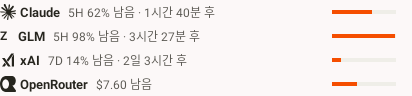
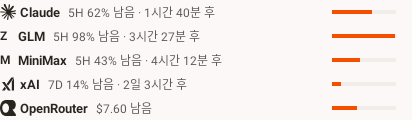
test(minimax): cover cards, notifications and screens

diff --git a/app/src/test/java/org/parkjw/apps/oot/service/NotificationScreenshotTest.kt b/app/src/test/java/org/parkjw/apps/oot/service/NotificationScreenshotTest.kt
@@ -54,6 +54,15 @@ class NotificationScreenshotTest {
             )
         ),
         VendorUsage(
+            accountId = "demo-minimax",
+            providerType = ProviderType.MINIMAX,
+            displayName = "minimax-demo@example.com",
+            windows = listOf(
+                UsageWindow("five_hour", "5h", Remaining.Percent(43.0), resetIn(4 * 60 + 12)),
+                UsageWindow("seven_day", "7d", Remaining.Percent(77.0), resetIn(5 * 24 * 60))
+            )
+        ),
+        VendorUsage(
             accountId = "demo-xai",
             providerType = ProviderType.XAI,
             displayName = "xai-demo@example.com",
@@ -134,6 +143,13 @@ class NotificationScreenshotTest {
         captureCollapsed(360, "notif-collapsed-360-light-3x.png")
     }
 
+    // 320dp at font scale 2.0: every vendor line, including MiniMax's 5H and 7D, still fits.
+    @Test
+    @Config(qualifiers = "ko-w320dp-h800dp-notnight-xxhdpi", fontScale = 2.0f)
+    fun notifExpanded320FontScale2x() {
+        captureExpanded(320, "notif-expanded-320-font200.png")
+    }
+
     // Claude, first in user order, is switched off in Settings: the collapsed line pulls the next vendor in.
     @Test
     @Config(qualifiers = "w412dp-h800dp-notnight-xxhdpi")
@@ -174,7 +190,7 @@ class NotificationScreenshotTest {
     fun staleRowsSayPreviousInTheExpandedFormAndText() {
         val notification = buildNotification(usages = staleUsages())
         assertEquals(
-            "Claude 62% (이전값) · GLM 98% · xAI 14% · OpenRouter $7.60",
+            "Claude 62% (이전값) · GLM 98% · MiniMax 43% · xAI 14% · OpenRouter $7.60",
             notification.contentText(),
         )
         val collapsed = applyToNewActivity(notification.contentView!!)
@@ -189,10 +205,10 @@ class NotificationScreenshotTest {
     @Test
     fun hiddenVendorsLeaveEveryNotificationForm() {
         val hiddenClaude = buildNotification(hidden = setOf("demo-claude"))
-        assertEquals("GLM 98% · xAI 14% · OpenRouter $7.60", hiddenClaude.contentText())
+        assertEquals("GLM 98% · MiniMax 43% · xAI 14% · OpenRouter $7.60", hiddenClaude.contentText())
         val expanded = applyToNewActivity(hiddenClaude.bigContentView!!)
-        assertEquals(View.VISIBLE, expanded.findViewById<View>(R.id.row2).visibility)
-        assertEquals(View.GONE, expanded.findViewById<View>(R.id.row3).visibility)
+        assertEquals(View.VISIBLE, expanded.findViewById<View>(R.id.row3).visibility)
+        assertEquals(View.GONE, expanded.findViewById<View>(R.id.row4).visibility)
 
         // Every vendor off: says so and points to Settings, not "nothing registered".
         val allHidden = buildNotification(hidden = allIds())
@@ -253,7 +269,7 @@ class NotificationScreenshotTest {
     @Test
     fun englishNotificationText() {
         val notification = buildNotification(language = AppLanguage.ENGLISH)
-        assertEquals("Claude 62% · GLM 98% · xAI 14% · OpenRouter $7.60", notification.contentText())
+        assertEquals("Claude 62% · GLM 98% · MiniMax 43% · xAI 14% · OpenRouter $7.60", notification.contentText())
         assertEquals("Refresh", notification.actions.single().title.toString())
         val expanded = applyToNewActivity(notification.bigContentView!!)
         val claude = expanded.findViewById<android.widget.TextView>(R.id.text0).text.toString()

diff --git a/app/src/test/java/org/parkjw/apps/oot/ui/screens/DashboardScreenshotTest.kt b/app/src/test/java/org/parkjw/apps/oot/ui/screens/DashboardScreenshotTest.kt
@@ -103,6 +103,7 @@ class DashboardScreenshotTest {
                 ),
             ),
         ),
+        miniMaxUsage(),
         // xAI reports only its weekly credit period, with the period end as the reset.
         VendorUsage(
             accountId = "xai-1",
@@ -150,6 +151,26 @@ class DashboardScreenshotTest {
                     label = "credit",
                     remaining = Remaining.Balance(110.00, "CNY"),
                 ),
+            ),
+        ),
+    )
+
+    private fun miniMaxUsage() = VendorUsage(
+        accountId = "minimax-1",
+        providerType = ProviderType.MINIMAX,
+        displayName = "MiniMax",
+        windows = listOf(
+            UsageWindow(
+                id = "five_hour",
+                label = "5h",
+                remaining = Remaining.Percent(43.0),
+                resetsAt = fixedNow.plus(Duration.ofHours(4).plusMinutes(12)),
+            ),
+            UsageWindow(
+                id = "seven_day",
+                label = "7d",
+                remaining = Remaining.Percent(77.0),
+                resetsAt = fixedNow.plus(Duration.ofDays(5)),
             ),
         ),
     )
@@ -301,8 +322,29 @@ class DashboardScreenshotTest {
         )
     }
 
+    // 320dp and font scale 2.0: the MiniMax 5-hour and weekly rows keep their % and reset times.
     @Test
-    @Config(qualifiers = "ko-w412dp-h1300dp-notnight-xxhdpi")
+    @Config(qualifiers = "ko-w320dp-h2600dp-notnight-xxhdpi", fontScale = 2.0f)
+    fun dashboardMiniMaxNarrowFontScale2x() {
+        composeRule.setContent {
+            OotTheme(darkTheme = false) {
+                DashboardScreen(
+                    vendorUsages = listOf(miniMaxUsage()),
+                    now = fixedNow,
+                    modifier = Modifier.testTag("dashboard_root"),
+                )
+            }
+        }
+        composeRule.onNodeWithText("MiniMax").assertExists()
+        composeRule.onNodeWithText("43% 남음").assertExists()
+        composeRule.onNodeWithText("77% 남음").assertExists()
+        composeRule.onNodeWithTag("dashboard_root").captureRoboImage(
+            File(roborazziSystemPropertyOutputDirectory(), "dashboard-minimax-320dp-font200.png"),
+        )
+    }
+
+    @Test
+    @Config(qualifiers = "ko-w412dp-h1700dp-notnight-xxhdpi")
     fun dashboardLight() {
         composeRule.setContent {
             OotTheme(darkTheme = false) {
@@ -323,7 +365,7 @@ class DashboardScreenshotTest {
     }
 
     @Test
-    @Config(qualifiers = "ko-w412dp-h1300dp-night-xxhdpi")
+    @Config(qualifiers = "ko-w412dp-h1700dp-night-xxhdpi")
     fun dashboardDark() {
         composeRule.setContent {
             OotTheme(darkTheme = true) {
@@ -417,11 +459,11 @@ class DashboardScreenshotTest {
 
     // English (#74): the same dashboards with English resources.
     @Test
-    @Config(qualifiers = "en-w412dp-h1300dp-notnight-xxhdpi")
+    @Config(qualifiers = "en-w412dp-h1700dp-notnight-xxhdpi")
     fun dashboardLightEnglish() = captureEnglish(darkTheme = false, fileName = "dashboard-light-en.png")
 
     @Test
-    @Config(qualifiers = "en-w412dp-h1300dp-night-xxhdpi")
+    @Config(qualifiers = "en-w412dp-h1700dp-night-xxhdpi")
     fun dashboardDarkEnglish() = captureEnglish(darkTheme = true, fileName = "dashboard-dark-en.png")
 
     private fun captureEnglish(darkTheme: Boolean, fileName: String) {

diff --git a/app/src/test/java/org/parkjw/apps/oot/ui/screens/SettingsScreenSemanticsTest.kt b/app/src/test/java/org/parkjw/apps/oot/ui/screens/SettingsScreenSemanticsTest.kt
@@ -36,6 +36,7 @@ class SettingsScreenSemanticsTest {
         ProviderAccount(id = "demo-claude", provider = ProviderType.CLAUDE, name = "Claude"),
         ProviderAccount(id = "demo-xai", provider = ProviderType.XAI, name = "xAI"),
         ProviderAccount(id = "demo-zai", provider = ProviderType.ZAI, name = "Z.ai"),
+        ProviderAccount(id = "demo-minimax", provider = ProviderType.MINIMAX, name = "MiniMax"),
     )
 
     private fun getString(resId: Int): String =
@@ -130,8 +131,14 @@ class SettingsScreenSemanticsTest {
         composeRule.onNode(hasRole(Role.Switch) and hasText("Z.ai"))
             .assertIsOn()
 
+        composeRule.onAllNodes(hasRole(Role.Switch) and hasText("MiniMax"))
+            .assertCountEquals(1)
+        composeRule.onNode(hasRole(Role.Switch) and hasText("MiniMax"))
+            .assertIsOn()
+
         // VendorMark fallback letter tile must not be exposed to accessibility
         composeRule.onAllNodes(hasText("Z")).assertCountEquals(0)
+        composeRule.onAllNodes(hasText("M")).assertCountEquals(0)
 
         // 3. Auto update check toggle
         val autoUpdateTitle = getString(R.string.update_auto)
@@ -139,6 +146,17 @@ class SettingsScreenSemanticsTest {
             .assertCountEquals(1)
         composeRule.onNode(hasRole(Role.Switch) and hasText(autoUpdateTitle))
             .assertIsOff()
+    }
+
+    @Test
+    fun minimaxNotificationVisibilityToggleReportsTheNewState() {
+        var changed: Pair<String, Boolean>? = null
+        setSettingsContent(
+            notificationHiddenIds = emptySet(),
+            onNotificationShownChange = { id, shown -> changed = id to shown },
+        )
+        composeRule.onNode(hasRole(Role.Switch) and hasText("MiniMax")).performClick()
+        assertEquals("demo-minimax" to false, changed)
     }
 
     @Test

diff --git a/app/src/test/java/org/parkjw/apps/oot/service/TokenNotificationManagerTest.kt b/app/src/test/java/org/parkjw/apps/oot/service/TokenNotificationManagerTest.kt
@@ -62,6 +62,15 @@ class TokenNotificationManagerTest {
             windows = listOf(UsageWindow("five_hour", "5h", Remaining.Percent(98.0), resetIn(3 * 60 + 27))),
         ),
         VendorUsage(
+            accountId = "demo-minimax",
+            providerType = ProviderType.MINIMAX,
+            displayName = "minimax-demo@example.com",
+            windows = listOf(
+                UsageWindow("five_hour", "5h", Remaining.Percent(43.0), resetIn(4 * 60 + 12)),
+                UsageWindow("seven_day", "7d", Remaining.Percent(77.0), resetIn(5 * 24 * 60)),
+            ),
+        ),
+        VendorUsage(
             accountId = "demo-xai",
             providerType = ProviderType.XAI,
             displayName = "xai-demo@example.com",
@@ -128,7 +137,7 @@ class TokenNotificationManagerTest {
             .getNotification(TokenNotificationManager.NOTIFICATION_ID)
         assertNotNull(notification)
         assertEquals(
-            "Claude 62% · GLM 98% · xAI 14% · OpenRouter $7.60",
+            "Claude 62% · GLM 98% · MiniMax 43% · xAI 14% · OpenRouter $7.60",
             notification!!.extras.getCharSequence(Notification.EXTRA_TEXT).toString(),
         )
         assertNotNull(notification.contentView)
@@ -143,7 +152,7 @@ class TokenNotificationManagerTest {
         val shadow = Shadows.shadowOf(notificationManager(app))
         assertEquals(1, shadow.allNotifications.size)
         assertEquals(
-            "Claude 62% · GLM 98% · xAI 14% · OpenRouter $7.60",
+            "Claude 62% · GLM 98% · MiniMax 43% · xAI 14% · OpenRouter $7.60",
             shadow.getNotification(TokenNotificationManager.NOTIFICATION_ID)!!
                 .extras.getCharSequence(Notification.EXTRA_TEXT).toString(),
         )

diff --git a/app/src/test/java/org/parkjw/apps/oot/notification/NotificationContentTest.kt b/app/src/test/java/org/parkjw/apps/oot/notification/NotificationContentTest.kt
@@ -200,6 +200,30 @@ class NotificationContentTest {
     }
 
     @Test
+    fun `minimax shows 5H and 7D with reset times like GLM`() {
+        val now = Instant.parse("2026-10-21T12:00:00Z")
+        val mini = VendorUsage(
+            "id", ProviderType.MINIMAX, "acc",
+            listOf(
+                UsageWindow("five_hour", "5시간", Remaining.Percent(43.0), now.plusSeconds((4 * 60 + 12) * 60)),
+                UsageWindow("seven_day", "주간", Remaining.Percent(77.0), now.plusSeconds(5 * 24 * 3600))
+            )
+        )
+        val expanded = NotificationContent.expandedItems(listOf(mini), now = now, strings = TestNotificationStrings.KO).single()
+        assertEquals("MiniMax", expanded.name)
+        assertEquals("M", expanded.mark)
+        assertEquals("5H 43% 남음 · 4시간 12분 후", expanded.text)
+        assertEquals(43, expanded.percent)
+
+        val weekly = NotificationContent.expandedItems(
+            listOf(mini.copy(windows = mini.windows.filter { it.id == "seven_day" })),
+            now = now,
+            strings = TestNotificationStrings.KO
+        ).single()
+        assertEquals("7D 77% 남음 · 5일 후", weekly.text)
+    }
+
+    @Test
     fun `expanded line has no reset suffix when the representative has no reset`() {
         val usage = vendor(62.0, ProviderType.ZAI)
         assertEquals("5H 62% 남음", NotificationContent.expandedItems(listOf(usage), now = now, strings = TestNotificationStrings.KO).single().text)

diff --git a/app/src/test/java/org/parkjw/apps/oot/ui/screens/AddAccountCopyScreenshotTest.kt b/app/src/test/java/org/parkjw/apps/oot/ui/screens/AddAccountCopyScreenshotTest.kt
@@ -34,6 +34,24 @@ class AddAccountCopyScreenshotTest {
         composeRule.onNodeWithText("확인해요.", substring = true).assertExists()
     }
 
+    // MiniMax needs an M Plan / Token Plan key (not pay-as-you-go); region is auto-detected.
+    @Test
+    fun minimaxHelperLight() {
+        capture(ProviderType.MINIMAX, darkTheme = false, fileName = "add-account-minimax-light.png")
+        composeRule.onNodeWithText("Plan Details", substring = true).assertExists()
+        composeRule.onNodeWithText("pay-as-you-go", substring = true).assertExists()
+        composeRule.onNodeWithText("글로벌·중국 리전", substring = true).assertExists()
+    }
+
+    @Test
+    @Config(qualifiers = "en-w320dp-h760dp")
+    fun minimaxHelperEnglish() {
+        capture(ProviderType.MINIMAX, darkTheme = false, fileName = "add-account-minimax-light-en.png")
+        composeRule.onNodeWithText("Plan Details", substring = true).assertExists()
+        composeRule.onNodeWithText("pay-as-you-go", substring = true).assertExists()
+        composeRule.onNodeWithText("Global and China", substring = true).assertExists()
+    }
+
     @Test
     fun claudeSignInLight() {
         capture(ProviderType.CLAUDE, darkTheme = false, fileName = "add-account-claude-light.png")

diff --git a/app/src/test/java/org/parkjw/apps/oot/ui/VendorLogoTest.kt b/app/src/test/java/org/parkjw/apps/oot/ui/VendorLogoTest.kt
@@ -26,6 +26,7 @@ class VendorLogoTest {
         )
         assertNull(VendorLogo.of(ProviderType.OPENAI))
         assertNull(VendorLogo.of(ProviderType.ZAI))
+        assertNull(VendorLogo.of(ProviderType.MINIMAX))
         assertNotNull(VendorLogo.of(ProviderType.CLAUDE)?.mono)
     }
 }
